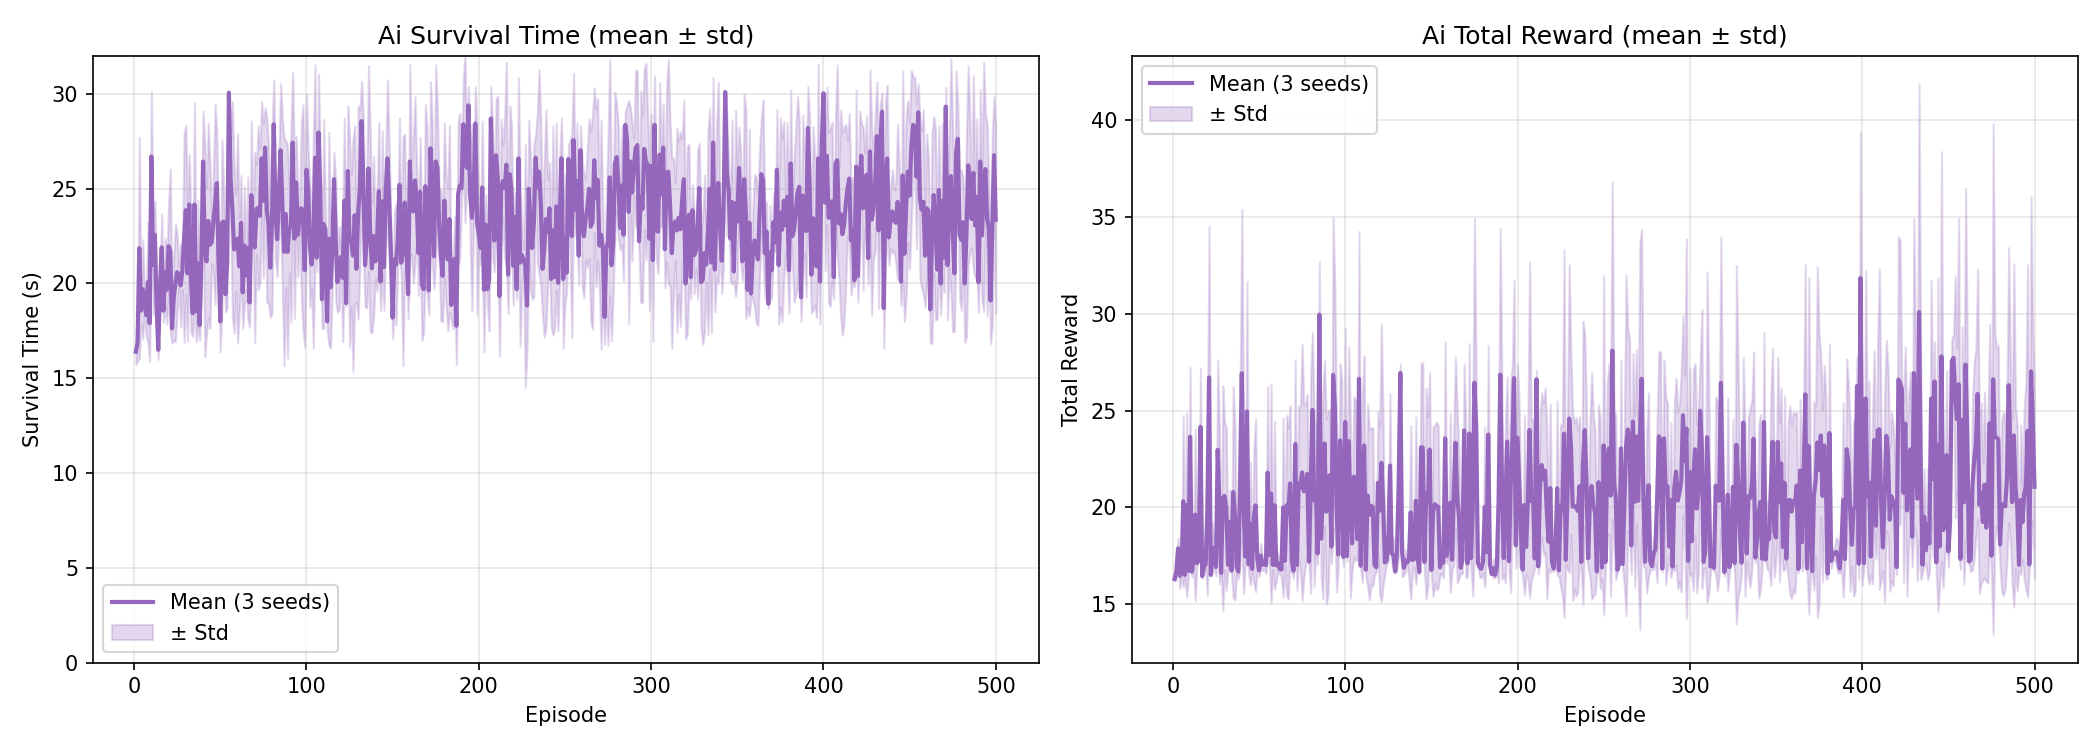
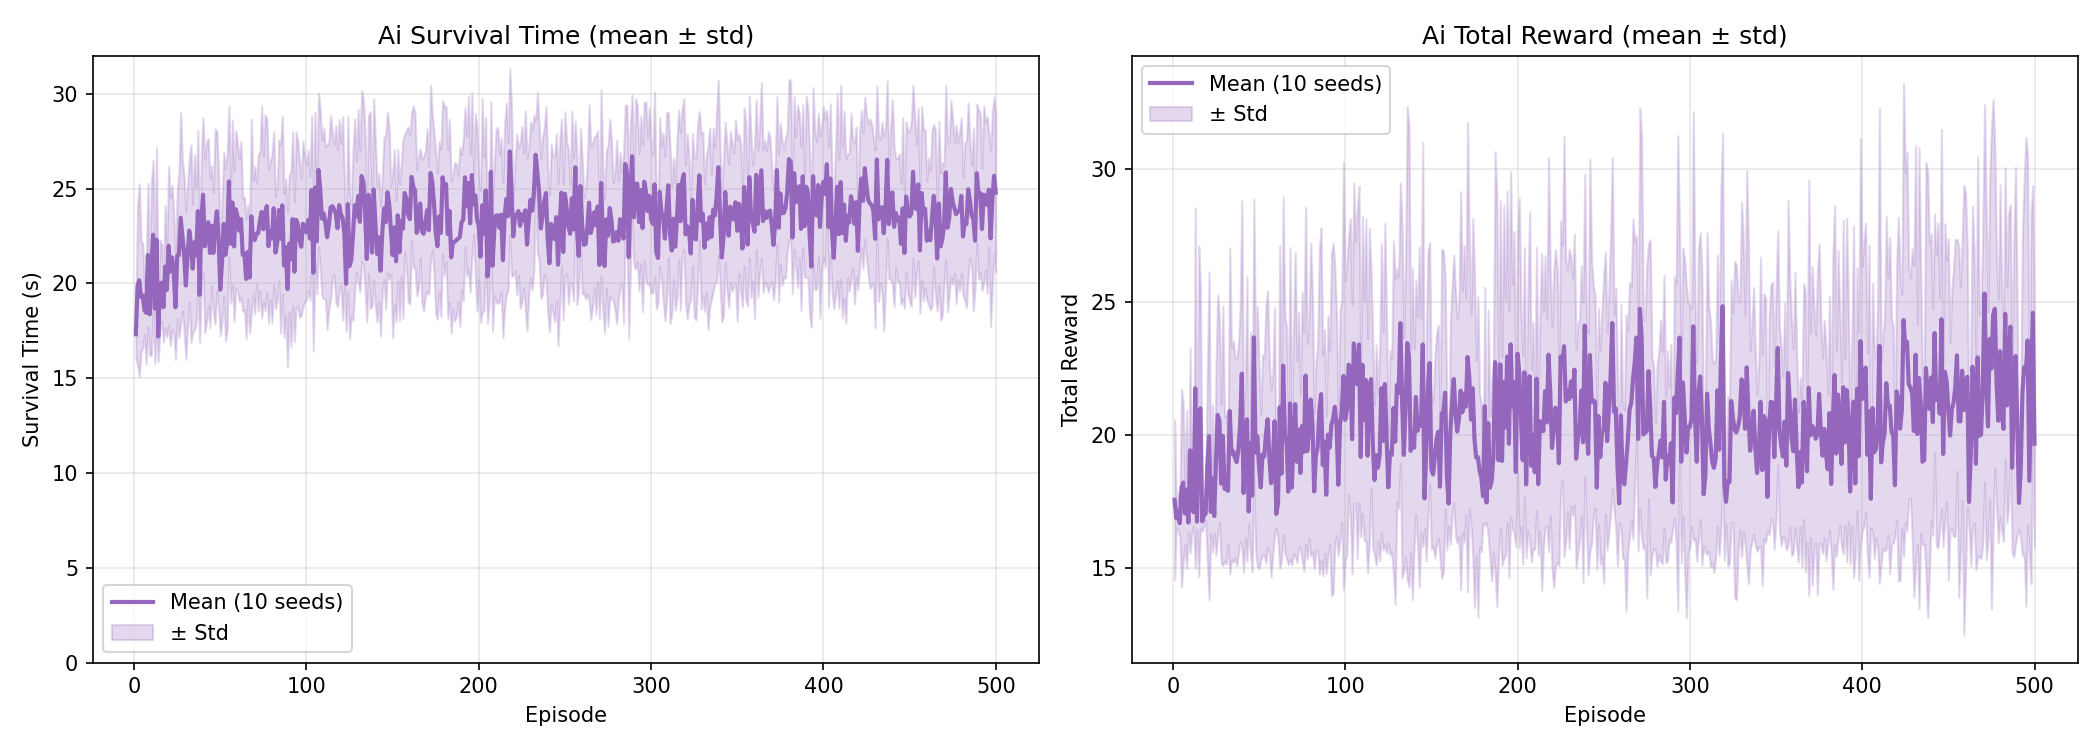
plots

diff --git a/Assets/StreamingAssets/plot_results.py b/Assets/StreamingAssets/plot_results.py
@@ -54,27 +54,27 @@ for difficulty in DIFFICULTIES:
 
     # --- Survival Time ---
     ep, mean, std = aggregate(difficulty, "SurvivalTime")
-    axes[0].plot(ep, mean, color=color, linewidth=2, label="Mean (3 seeds)")
+    axes[0].plot(ep, mean, color=color, linewidth=2, label=f"Mean ({len(SEEDS)} seeds)")
     axes[0].fill_between(ep, mean - std, mean + std, color=color, alpha=0.25, label="± Std")
     axes[0].set_xlabel("Episode")
     axes[0].set_ylabel("Survival Time (s)")
-    axes[0].set_title(f"{difficulty.capitalize()} Survival Time (mean ± std)")
+    axes[0].set_title(f"{difficulty.capitalize()} Survival Time w/ far shooting (mean ± std)")
     axes[0].legend()
     axes[0].grid(True, alpha=0.3)
     axes[0].set_ylim(0, 32)
 
     # --- Total Reward ---
     ep, mean, std = aggregate(difficulty, "TotalReward")
-    axes[1].plot(ep, mean, color=color, linewidth=2, label="Mean (3 seeds)")
+    axes[1].plot(ep, mean, color=color, linewidth=2, label=f"Mean ({len(SEEDS)} seeds)")
     axes[1].fill_between(ep, mean - std, mean + std, color=color, alpha=0.25, label="± Std")
     axes[1].set_xlabel("Episode")
     axes[1].set_ylabel("Total Reward")
-    axes[1].set_title(f"{difficulty.capitalize()} Total Reward (mean ± std)")
+    axes[1].set_title(f"{difficulty.capitalize()} Total Reward w/ far shooting (mean ± std)")
     axes[1].legend()
     axes[1].grid(True, alpha=0.3)
 
     plt.tight_layout()
-    plt.savefig(OUTPUT_DIR / f"per_{difficulty}.png", dpi=150)
+    plt.savefig(OUTPUT_DIR / f"col_per_{difficulty}.png", dpi=150)
     plt.close()
     print(f"  Saved per_{difficulty}.png")
 
@@ -98,18 +98,18 @@ for difficulty in DIFFICULTIES:
 
 axes[0].set_xlabel("Episode")
 axes[0].set_ylabel("Survival Time (s)")
-axes[0].set_title("Survival Time — All Conditions (mean ± std)")
+axes[0].set_title("Survival Time over All Conditions w/ far shooting (mean ± std)")
 axes[0].legend()
 axes[0].grid(True, alpha=0.3)
 
 axes[1].set_xlabel("Episode")
 axes[1].set_ylabel("Total Reward")
-axes[1].set_title("Total Reward — All Conditions (mean ± std)")
+axes[1].set_title("Total Reward over All Conditions w/ far shooting (mean ± std)")
 axes[1].legend()
 axes[1].grid(True, alpha=0.3)
 
 plt.tight_layout()
-plt.savefig(OUTPUT_DIR / "cross_condition.png", dpi=150)
+plt.savefig(OUTPUT_DIR / "col_cross_condition.png", dpi=150)
 plt.close()
 print("  Saved cross_condition.png")
 
